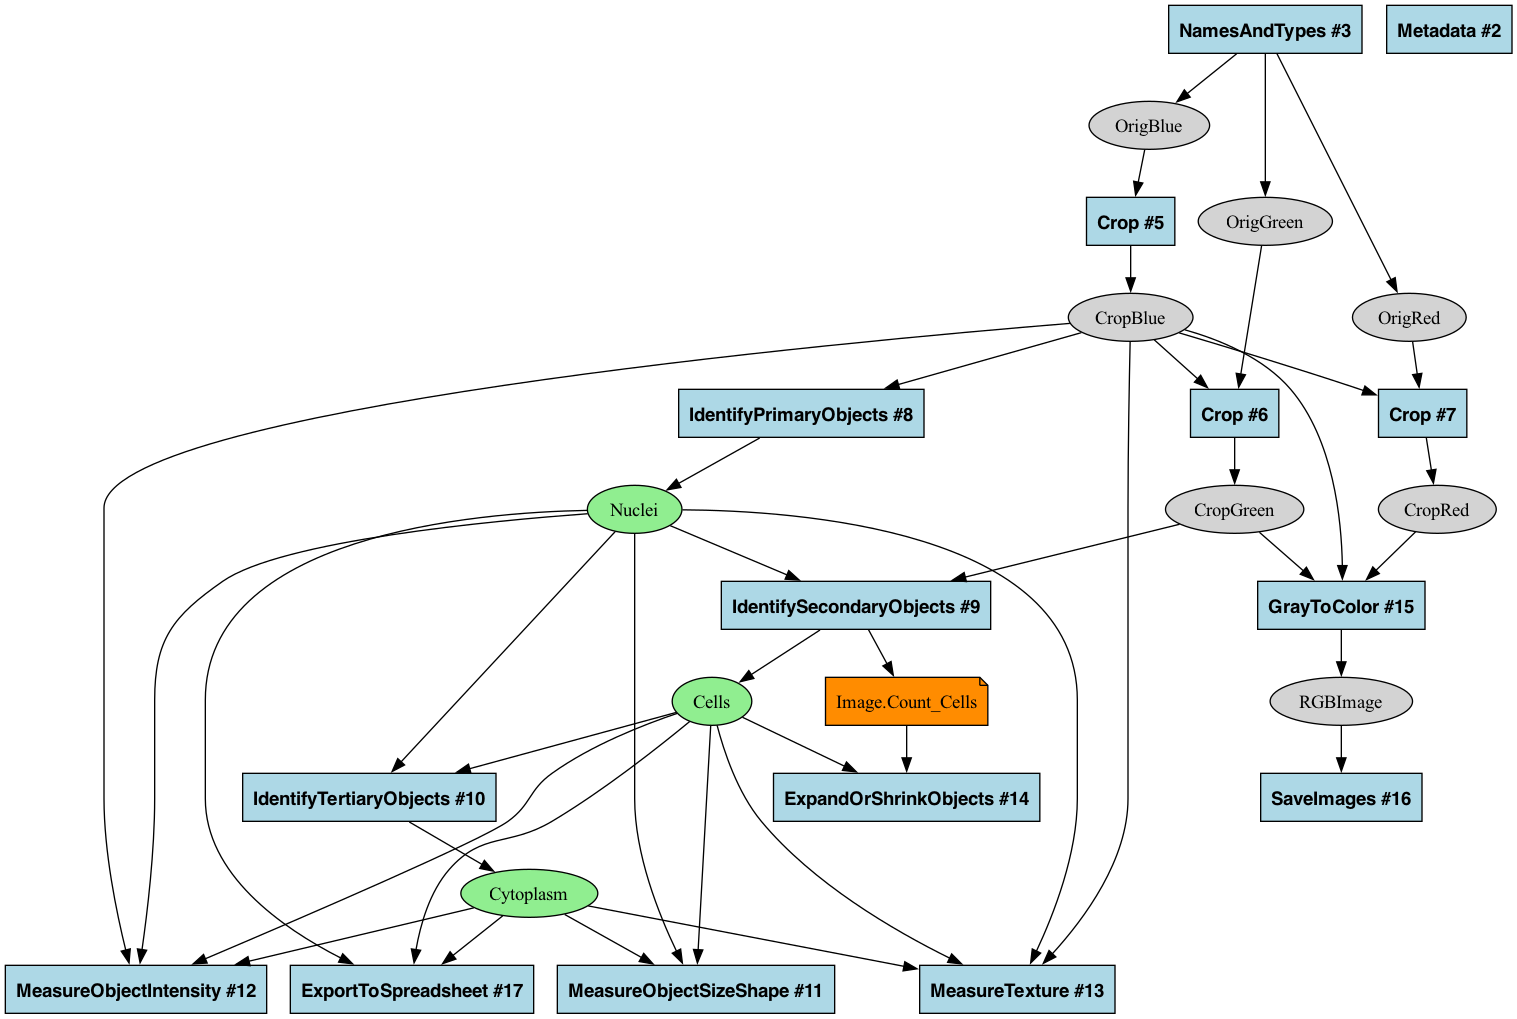
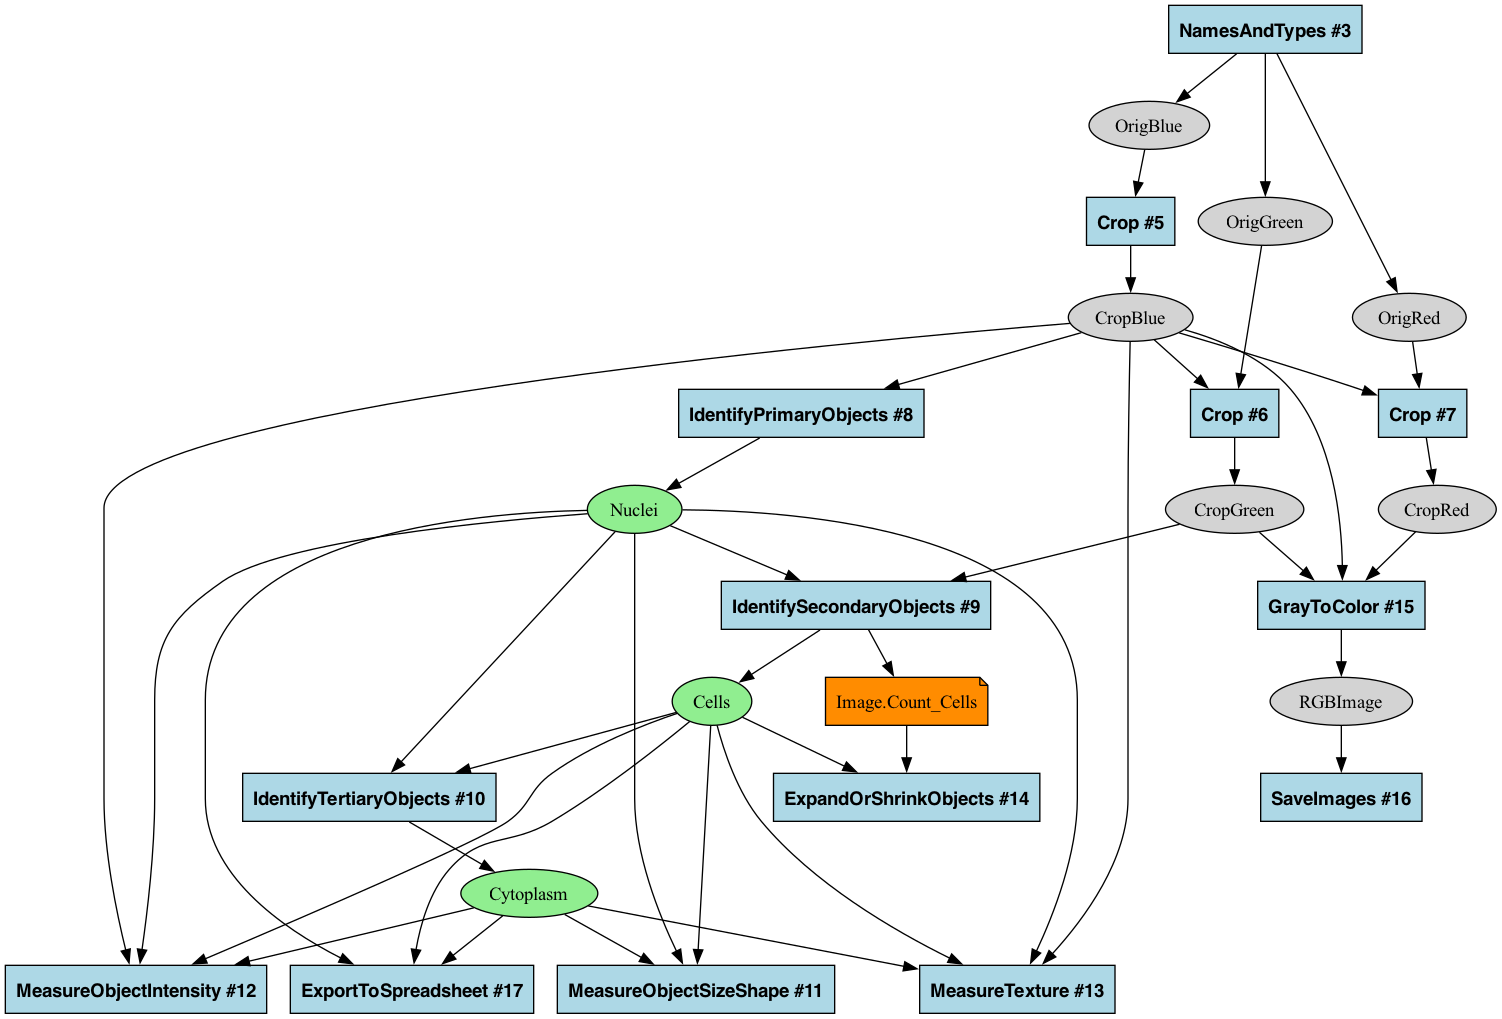
Remove voided modules after filterning unused

diff --git a/cp_graph.py b/cp_graph.py
@@ -1267,6 +1267,63 @@ def filter_multiple_parents(
 
     return filtered_graph, edges_affected
 
+def filter_voided_modules(
+    G: nx.DiGraph, highlight_filtered: bool = False
+) -> Tuple[nx.DiGraph, int]:
+    """
+    Filter graph to remove or mark module nodes that have no inputs and no outputs.
+
+    Args:
+        G: The original NetworkX graph
+        highlight_filtered: If True, mark filtered nodes instead of removing them
+
+    Returns:
+        A tuple of (filtered graph, number of nodes affected)
+    """
+    filtered_graph = G.copy()
+
+    # Find all module nodes
+    module_nodes = [
+        node
+        for node, attrs in G.nodes(data=True)
+        if attrs.get("type") == NODE_TYPE_MODULE
+    ]
+
+    voided_modules = []
+
+    for node in module_nodes:
+        # Skip if already marked as filtered
+        if G.nodes[node].get("filtered", False):
+            continue
+
+        predecessors = list(G.predecessors(node))
+        successors = list(G.successors(node))
+
+        # Count non-filtered predecessors and successors
+        active_predecessors = [
+            p for p in predecessors 
+            if not G.nodes[p].get("filtered", False)
+        ]
+        active_successors = [
+            s for s in successors 
+            if not G.nodes[s].get("filtered", False)
+        ]
+
+        # Module is voided if it has no active inputs or no active outputs
+        if not active_predecessors and not active_successors:
+            voided_modules.append(node)
+
+    if highlight_filtered:
+        # Mark nodes as filtered instead of removing them
+        for node in voided_modules:
+            filtered_graph.nodes[node]["filtered"] = True
+    else:
+        # Remove voided module nodes
+        if voided_modules:
+            filtered_graph.remove_nodes_from(voided_modules)
+
+    return filtered_graph, len(voided_modules)
+
 
 def apply_graph_filters(
     G: nx.DiGraph,
@@ -1324,6 +1381,7 @@ def apply_graph_filters(
                     f"  Removed {nodes_affected} nodes not reachable from specified roots"
                 )
 
+    remove_voided_modules = False
     # Apply unused data filtering if specified
     if remove_unused_images or remove_unused_objects or remove_unused_measurements:
         action_verb = "Highlighting" if highlight_filtered else "Removing"
@@ -1340,11 +1398,13 @@ def apply_graph_filters(
             filtered_graph, highlight_filtered, remove_unused_images, remove_unused_objects, remove_unused_measurements
         )
         total_affected += nodes_affected
-        if not quiet and nodes_affected > 0:
-            if highlight_filtered:
-                print(f"  Highlighted {nodes_affected} unused nodes")
-            else:
-                print(f"  Removed {nodes_affected} unused nodes")
+        if nodes_affected > 0:
+            remove_voided_modules = True
+            if not quiet:
+                if highlight_filtered:
+                    print(f"  Highlighted {nodes_affected} unused nodes")
+                else:
+                    print(f"  Removed {nodes_affected} unused nodes")
 
     # Apply module type exclusion if specified
     if exclude_module_types:
@@ -1360,6 +1420,30 @@ def apply_graph_filters(
                 print(f"  Highlighted {nodes_affected} modules of specified types")
             else:
                 print(f"  Removed {nodes_affected} modules of specified types")
+
+    # Remove voided modules (modules with no inputs and outputs)
+    if remove_voided_modules:
+        action_verb = "Highlighting" if highlight_filtered else "Removing"
+        if not quiet:
+            print(f"{action_verb} voided modules (no inputs and no outputs)")
+
+        # Keep applying until no more voided modules are found
+        # (removing one module might orphan others)
+        total_voided = 0
+        while True:
+            filtered_graph, nodes_affected = filter_voided_modules(
+                filtered_graph, highlight_filtered
+            )
+            total_voided += nodes_affected
+            if nodes_affected == 0:
+                break
+
+        total_affected += total_voided
+        if not quiet and total_voided > 0:
+            if highlight_filtered:
+                print(f"  Highlighted {total_voided} voided modules")
+            else:
+                print(f"  Removed {total_voided} voided modules")
 
     # Ensure images and objects only have a single parent
     # Last module in pipeline marked as parent is kept as parent
